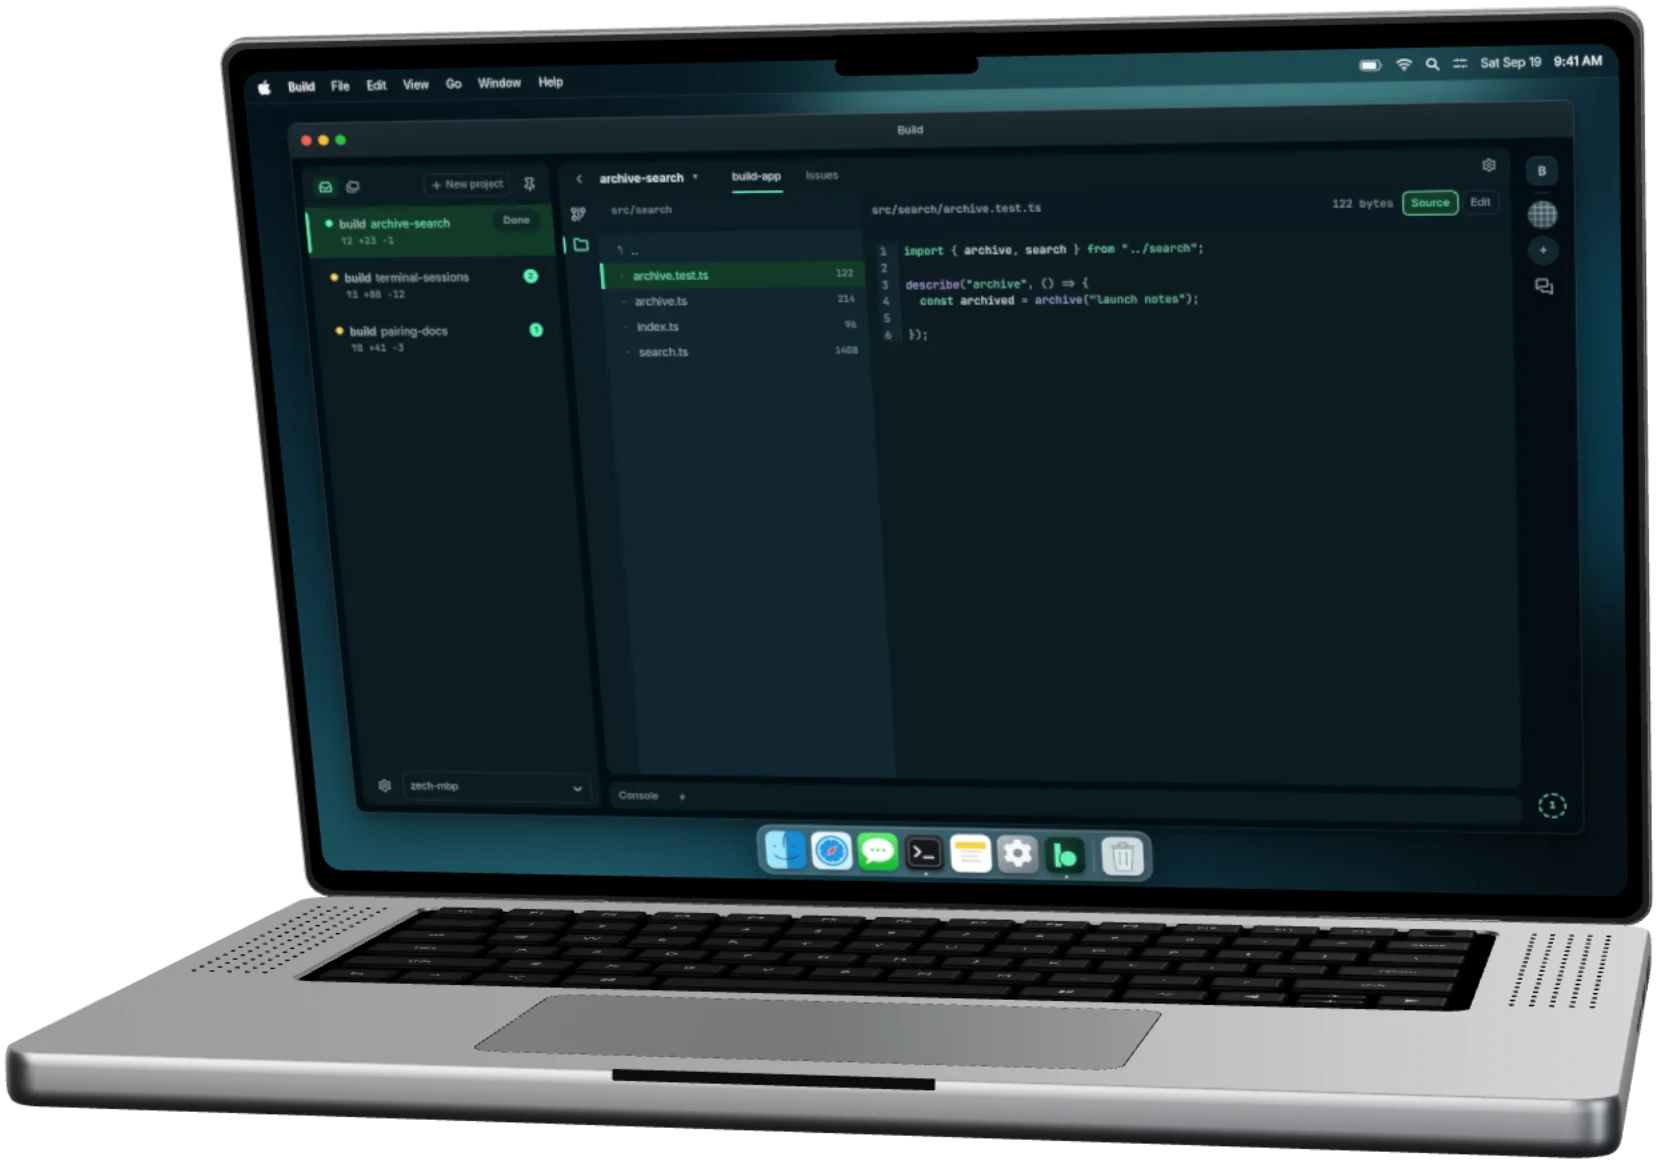
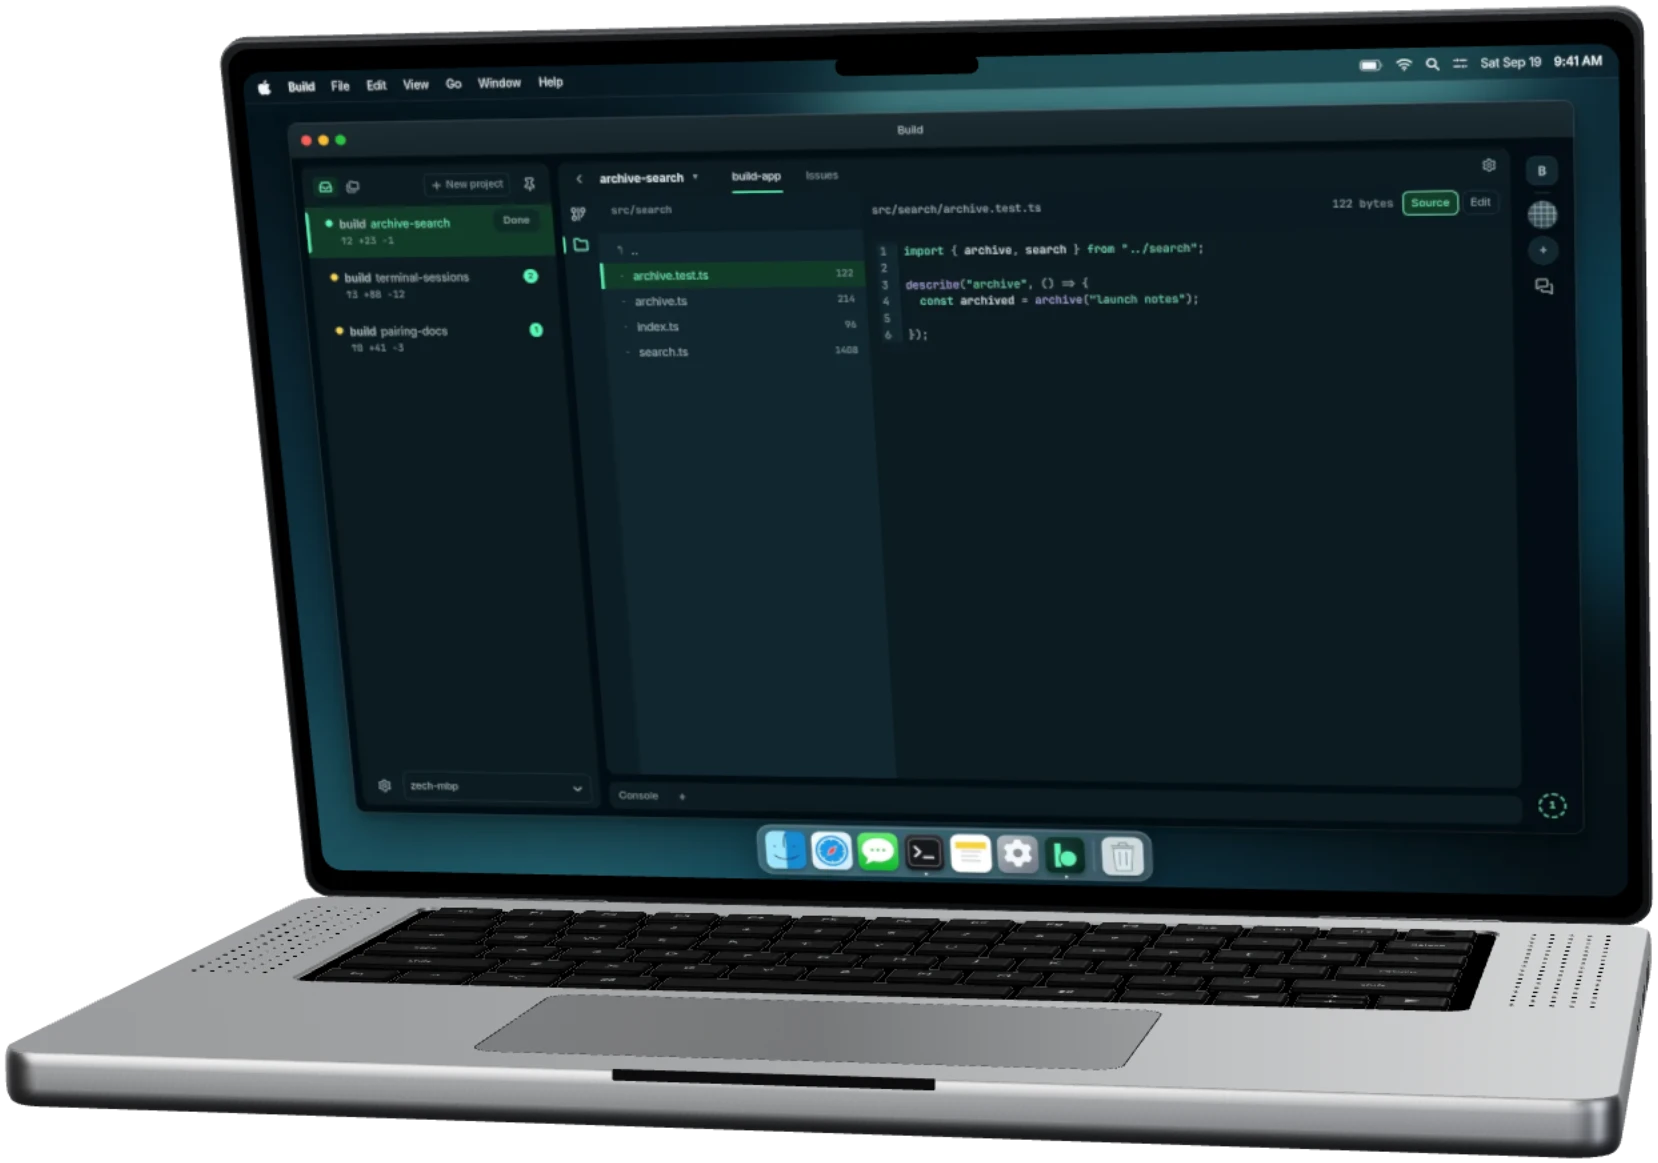
Landing laptop: quiet the lid rim around the screen
Zech: the aluminium edge around the screen is too bright and pulls the eye
off the display. The lid shell's rim faces the key light, so at the chassis
finish it drew a white outline. The lid shell keeps the metal but drops to
base colour 0.30 at roughness 0.5, so it reads as a grey edge. The hero
cutout is recaptured to match.

diff --git a/landing/src/stage/stage.js b/landing/src/stage/stage.js
@@ -97,6 +97,16 @@ function dressAluminium(material) {
   material.clearcoat = 0;
 }
 
+// The lid's rim frames the display and faces the key light, so at the
+// chassis finish it draws a white outline that pulls the eye off the screen.
+// It stays metal, darker and a touch rougher, so it reads as an edge.
+const LID_SHELL_NODE = "laptop_lid_shell";
+
+export function dressLidShell(material) {
+  material.color.setRGB(0.3, 0.31, 0.33);
+  material.roughness = 0.5;
+}
+
 // The trackpad is the same satin metal a shade darker, not a lacquered pad.
 function dressTrackpad(material) {
   material.color.setRGB(0.5, 0.51, 0.53);
@@ -215,6 +225,7 @@ function prepareModel(name, source, maximumAnisotropy) {
     }
     const materials = Array.isArray(node.material) ? node.material : [node.material];
     const clones = materials.map((material) => cloneDeviceSurfaceMaterial(material, maximumAnisotropy));
+    if (node.name === LID_SHELL_NODE) clones.forEach(dressLidShell);
     node.material = Array.isArray(node.material) ? clones : clones[0];
   });
   if (!screenMeshes.length) throw new Error(`Missing ${name} screen mesh`);
